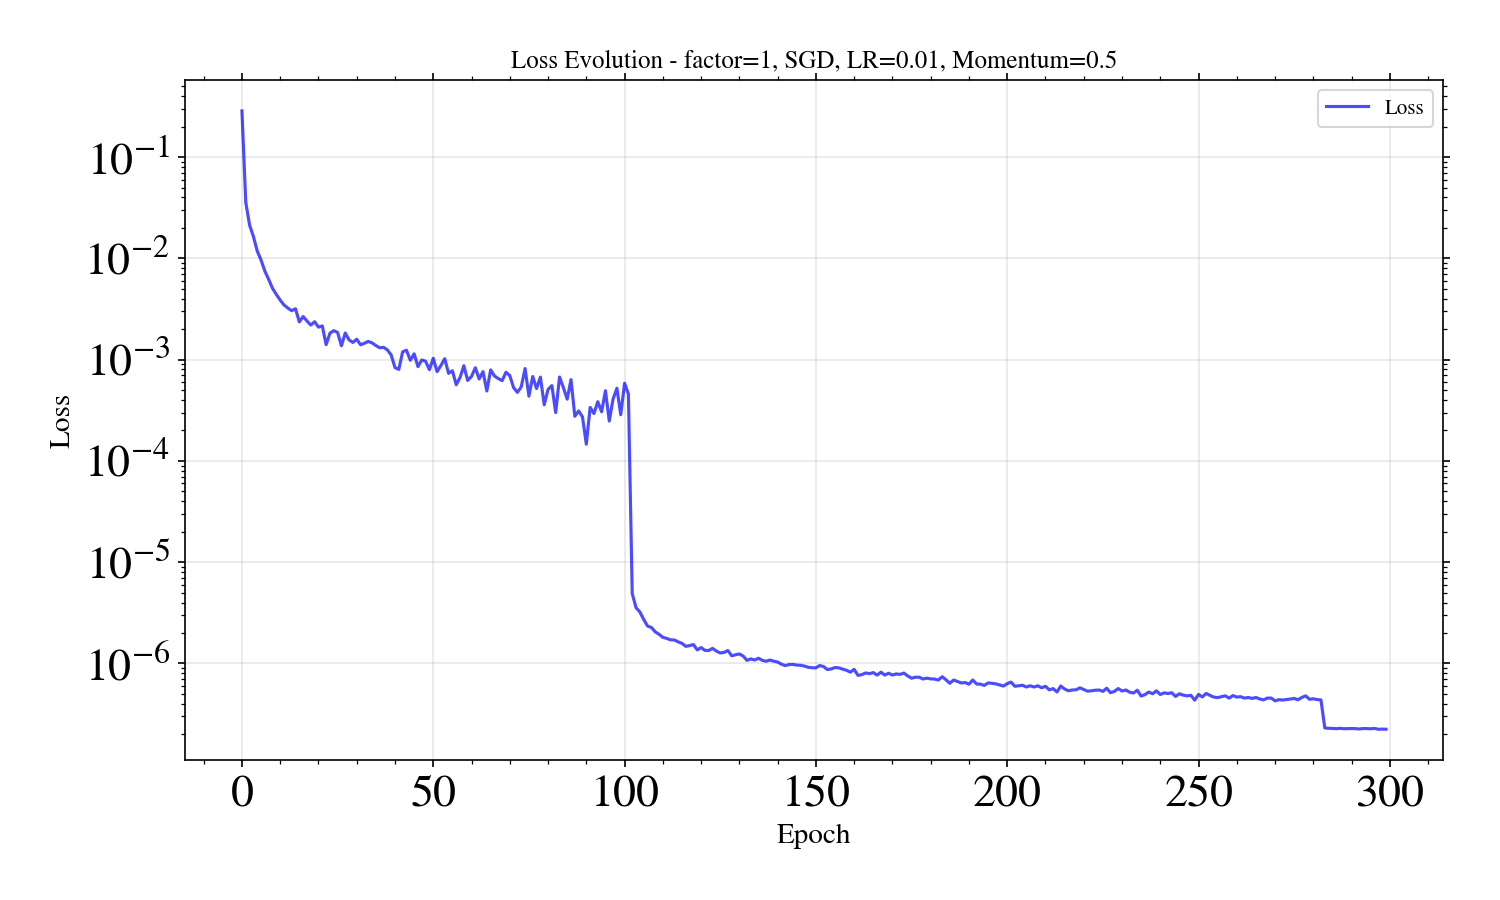
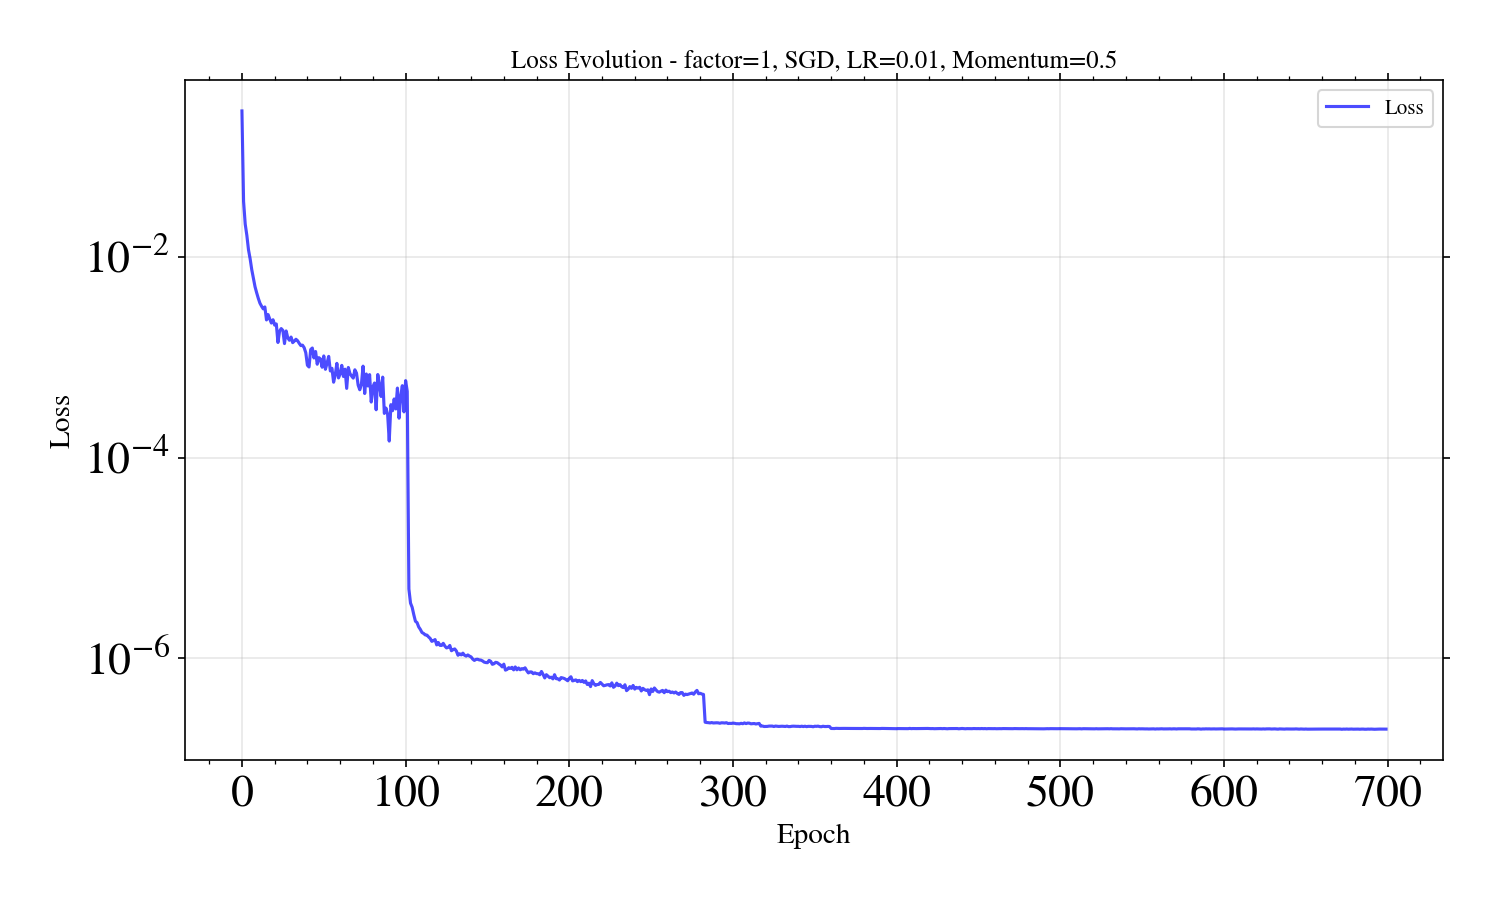
those trainings are incredible

diff --git a/experiments/table/meanfield_cosine_multifreq_experiment.py b/experiments/table/meanfield_cosine_multifreq_experiment.py
@@ -102,6 +102,7 @@ class MeanFieldODESolver:
         # we initialize weights as Gaussian O(1) (not zero)
         self.w1_0 = torch.randn(n1, r, device=device)  # Gaussian N(0, 1) - order 1
         self.w2_0 = torch.randn(n2, device=device)  # Gaussian N(0, 1) - order 1
+        self.c_0 = torch.randn(1, device=device).item()  # scalar output bias (trainable), initialized as N(0, 1)
         
         # we store trajectory
         self.trajectory = []
@@ -137,22 +138,24 @@ class MeanFieldODESolver:
             B_k[k] = torch.mean(L_k * phi2_prime * w2.unsqueeze(1), dim=0)  # [batch_size]
         return B_k
     
-    def compute_output(self, w1, w2, X):
-        """we compute network output y_hat = E_C2[w2(C2) phi2(H2)]"""
+    def compute_output(self, w1, w2, c, X):
+        """we compute network output y_hat = E_C2[w2(C2) phi2(H2)] + c"""
         H2, _ = self.compute_H2(w1, w2, X)
         phi2 = torch.relu(H2)  # [n2, batch_size]
-        y_hat = torch.mean(w2.unsqueeze(1) * phi2, dim=0)  # [batch_size]
+        y_hat = torch.mean(w2.unsqueeze(1) * phi2, dim=0) + c  # [batch_size] + scalar bias
         return y_hat
     
-    def ode_rhs(self, t, y, X_data, y_data, xi1=1.0, xi2=1.0):
+    def ode_rhs(self, t, y, X_data, y_data, xi1=1.0, xi2=1.0, xic=1.0):
         """we compute right-hand side of mean-field ODEs"""
         w1_flat = y[:self.n1 * self.r]
-        w2_flat = y[self.n1 * self.r:]
+        w2_flat = y[self.n1 * self.r:-1]
+        c_val = y[-1]
         w1 = w1_flat.reshape(self.n1, self.r)
         w2 = w2_flat
         
         w1_t = torch.tensor(w1, device=self.device, dtype=torch.float32)
         w2_t = torch.tensor(w2, device=self.device, dtype=torch.float32)
+        c_t = torch.tensor(c_val, device=self.device, dtype=torch.float32)
         X_t = torch.tensor(X_data, device=self.device, dtype=torch.float32)
         if X_t.dim() == 1:
             X_t = X_t.unsqueeze(1)
@@ -161,10 +164,11 @@ class MeanFieldODESolver:
         H2, m_k = self.compute_H2(w1_t, w2_t, X_t)
         B_k = self.compute_backprop_signal(w2_t, H2)
         
-        y_hat = self.compute_output(w1_t, w2_t, X_t)
+        y_hat = self.compute_output(w1_t, w2_t, c_t, X_t)
         dL = y_hat - y_data_t  # square loss derivative [batch_size]
         
         inner_prod = torch.matmul(self.f1, X_t.t())  # [n1, batch_size]
+        inner_prod = inner_prod + self.b1.unsqueeze(1)  # we add frozen bias: [n1, batch_size]
         phi1_vals = torch.relu(inner_prod)  # [n1, batch_size]
         
         dw1 = torch.zeros_like(w1_t)
@@ -175,21 +179,26 @@ class MeanFieldODESolver:
         phi2_vals = torch.relu(H2)  # [n2, batch_size]
         dw2 = -xi2 * torch.mean(dL.unsqueeze(0) * phi2_vals, dim=1)  # [n2]
         
+        # we compute gradient for output bias c: dc/dt = -xic * E[dL]
+        dc = -xic * torch.mean(dL)  # scalar
+        
         dw1_flat = dw1.cpu().numpy().flatten()
         dw2_flat = dw2.cpu().numpy()
-        return np.concatenate([dw1_flat, dw2_flat])
+        dc_val = dc.cpu().numpy().item()
+        return np.concatenate([dw1_flat, dw2_flat, [dc_val]])
     
-    def solve(self, X_data, y_data, t_span=(0, 1000), dt=1.0, xi1=1.0, xi2=1.0):
+    def solve(self, X_data, y_data, t_span=(0, 1000), dt=1.0, xi1=1.0, xi2=1.0, xic=1.0):
         """we solve the mean-field ODEs"""
         y0 = np.concatenate([
             self.w1_0.cpu().numpy().flatten(),
-            self.w2_0.cpu().numpy()
+            self.w2_0.cpu().numpy(),
+            [self.c_0]
         ])
         
         t_eval = np.arange(t_span[0], t_span[1] + dt, dt)
         
         sol = solve_ivp(
-            lambda t, y: self.ode_rhs(t, y, X_data, y_data, xi1=xi1, xi2=xi2),
+            lambda t, y: self.ode_rhs(t, y, X_data, y_data, xi1=xi1, xi2=xi2, xic=xic),
             t_span,
             y0,
             t_eval=t_eval,
@@ -207,10 +216,11 @@ class MeanFieldODESolver:
         """we extract weights at a given time index"""
         y = self.trajectory[t_idx]
         w1_flat = y[:self.n1 * self.r]
-        w2_flat = y[self.n1 * self.r:]
+        w2_flat = y[self.n1 * self.r:-1]
+        c_val = y[-1]
         w1 = w1_flat.reshape(self.n1, self.r)
         w2 = w2_flat
-        return torch.tensor(w1, device=self.device), torch.tensor(w2, device=self.device)
+        return torch.tensor(w1, device=self.device), torch.tensor(w2, device=self.device), c_val
     
     def compute_partial_functions(self, w1, X):
         """we compute f_k(t,x) = m_k(t;x,W) for each channel"""
@@ -299,18 +309,21 @@ def run_experiment():
     # we check initial weights (before solving)
     w1_init = mf_solver.w1_0.clone()
     w2_init = mf_solver.w2_0.clone()
+    c_init = mf_solver.c_0
     print(f"Initial weights: w1 shape={w1_init.shape}, w2 shape={w2_init.shape}")
     print(f"  w1 mean={torch.mean(w1_init).item():.6f}, std={torch.std(w1_init).item():.6f}")
     print(f"  w2 mean={torch.mean(w2_init).item():.6f}, std={torch.std(w2_init).item():.6f}")
+    print(f"  c (output bias) = {c_init:.6f}")
     
     sol = mf_solver.solve(x_train, y_train, t_span=t_span, dt=dt)
     
     print(f"Mean-field ODE solved. Trajectory shape: {mf_solver.trajectory.shape}")
     
     # we check final weights to verify they evolved
-    w1_final, w2_final = mf_solver.get_weights_at_time(-1)
+    w1_final, w2_final, c_final = mf_solver.get_weights_at_time(-1)
     print(f"Final weights: w1 mean={torch.mean(w1_final).item():.6f}, std={torch.std(w1_final).item():.6f}")
     print(f"  w2 mean={torch.mean(w2_final).item():.6f}, std={torch.std(w2_final).item():.6f}")
+    print(f"  c (output bias) = {c_final:.6f}")
     print(f"  Weight change: w1 diff={torch.mean(torch.abs(w1_final - w1_init)).item():.6f}")
     print(f"  Weight change: w2 diff={torch.mean(torch.abs(w2_final - w2_init)).item():.6f}")
     
@@ -333,7 +346,7 @@ def run_experiment():
     
     for t_idx in time_indices:
         t = mf_solver.times[t_idx]
-        w1_t, w2_t = mf_solver.get_weights_at_time(t_idx)
+        w1_t, w2_t, c_t = mf_solver.get_weights_at_time(t_idx)
         
         # we check weight statistics
         w1_mean = torch.mean(torch.abs(w1_t)).item()
@@ -371,10 +384,10 @@ def run_experiment():
     final_time_key = list(results.keys())[-1]
     log_ratios_final = results[final_time_key]['log_ratios']
     final_time = results[final_time_key]['time']
-    w1_final, w2_final = mf_solver.get_weights_at_time(-1)
+    w1_final, w2_final, c_final = mf_solver.get_weights_at_time(-1)
     w1_flat = w1_final.detach().cpu().numpy().flatten()
     w2_flat = w2_final.detach().cpu().numpy().flatten()
-    all_weights = np.concatenate([w1_flat, w2_flat])
+    all_weights = np.concatenate([w1_flat, w2_flat, [c_final]])
     abs_weights = np.abs(all_weights)
     abs_weights = abs_weights[abs_weights > 0]  # we remove zeros for log plot
     
@@ -569,10 +582,10 @@ def run_experiment():
     ax = fig.add_subplot(111)
     for t_idx in time_indices:
         t = mf_solver.times[t_idx]
-        w1_t, w2_t = mf_solver.get_weights_at_time(t_idx)
+        w1_t, w2_t, c_t = mf_solver.get_weights_at_time(t_idx)
         w1_flat_t = w1_t.detach().cpu().numpy().flatten()
         w2_flat_t = w2_t.detach().cpu().numpy().flatten()
-        all_weights_t = np.concatenate([w1_flat_t, w2_flat_t])
+        all_weights_t = np.concatenate([w1_flat_t, w2_flat_t, [c_t]])
         ax.hist(all_weights_t, bins=30, alpha=0.5, label=f'$t={t:.1f}$', density=True)
     ax.set_xlabel('Weight Value $w$', fontsize=24)
     ax.set_ylabel('Density', fontsize=24)
@@ -593,7 +606,8 @@ def run_experiment():
     # we compute weight changes
     w1_change = (w1_final - w1_init).detach().cpu().numpy().flatten()
     w2_change = (w2_final - w2_init).detach().cpu().numpy().flatten()
-    all_weight_changes = np.concatenate([w1_change, w2_change])
+    c_change = np.array([c_final - c_init])
+    all_weight_changes = np.concatenate([w1_change, w2_change, c_change])
     abs_weight_changes = np.abs(all_weight_changes)
     
     # we plot both signed and absolute changes
@@ -687,7 +701,7 @@ def run_experiment():
     x_fine_tensor = torch.tensor(x_fine.reshape(-1, 1), dtype=torch.float32, device=device)
     
     # we get weights at final time
-    w1_final, w2_final = mf_solver.get_weights_at_time(-1)
+    w1_final, w2_final, c_final = mf_solver.get_weights_at_time(-1)
     
     # we compute the 15 low-rank functions (output of low-rank layer, like in MMNN)
     # in mean-field: these are computed as the output after mixing f_k via L
@@ -805,7 +819,8 @@ def run_experiment():
     
     # we also plot the final output (weighted average of phi2)
     H2_fine, _ = mf_solver.compute_H2(w1_final, w2_final, x_fine_tensor)  # [n2, 500]
-    y_hat_fine = mf_solver.compute_output(w1_final, w2_final, x_fine_tensor).detach().cpu().numpy()
+    c_final_tensor = torch.tensor(c_final, device=device, dtype=torch.float32)
+    y_hat_fine = mf_solver.compute_output(w1_final, w2_final, c_final_tensor, x_fine_tensor).detach().cpu().numpy()
     
     fig = plt.figure(figsize=(12, 8))
     ax = fig.add_subplot(111)
@@ -817,7 +832,7 @@ def run_experiment():
     ax.legend(fontsize=18)
     ax.grid(True, alpha=0.3)
     ax.tick_params(labelsize=18)
-    fig.text(0.5, 0.02, f'{common_info_text} Final output: $\\hat{{y}}(x) = \\mathbb{{E}}_{{C_2}}[w_2(C_2) \\cdot \\phi_2(H_2)]$.', ha='center', fontsize=12, wrap=True)
+    fig.text(0.5, 0.02, f'{common_info_text} Final output: $\\hat{{y}}(x) = \\mathbb{{E}}_{{C_2}}[w_2(C_2) \\cdot \\phi_2(H_2)] + c$ (with output bias $c$).', ha='center', fontsize=12, wrap=True)
     plt.tight_layout(rect=[0, 0.05, 1, 0.98])
     plt.savefig(output_dir / 'meanfield_final_output.png', dpi=300, bbox_inches='tight')
     print(f"Saved figure to {output_dir / 'meanfield_final_output.png'}")
@@ -826,14 +841,15 @@ def run_experiment():
     print("\n" + "="*80)
     print("Mean-Field Implementation Summary:")
     print("="*80)
-    print("1. Architecture: 2-layer network with frozen random features f1 and mixing matrix L")
-    print("2. Partial Functions: f_k(x) = E_C1[w1(C1,k) * phi1(f1(C1), x)] where phi1 = ReLU")
+    print("1. Architecture: 2-layer network with frozen random features f1 (with bias b1) and mixing matrix L")
+    print("2. Partial Functions: f_k(x) = E_C1[w1(C1,k) * phi1(f1(C1)*x + b1(C1))] where phi1 = ReLU")
     print("3. Hidden Layer: H2(c2;x) = sum_k L_{c2,k} * f_k(x)")
-    print("4. Output: y_hat = E_C2[w2(C2) * phi2(H2)] where phi2 = ReLU")
+    print("4. Output: y_hat = E_C2[w2(C2) * phi2(H2)] + c where phi2 = ReLU, c is trainable output bias")
     print("5. Backprop Signal: B_k = E_C2[L_{C2,k} * phi2'(H2) * w2]")
     print("6. Weight Updates:")
     print("   - dw1[:,k] = -xi1 * E[dL * phi1 * B_k]")
     print("   - dw2 = -xi2 * E[dL * phi2]")
+    print("   - dc = -xic * E[dL]")
     print("   where dL = y_hat - y (square loss derivative)")
     print("7. ODE Solver: scipy.integrate.solve_ivp with RK45 method")
     print("="*80)

diff --git a/experiments/table/add_lr_reduction_bars.py b/experiments/table/add_lr_reduction_bars.py
@@ -1,0 +1,115 @@
+#!/usr/bin/env python3
+"""
+Add red vertical bars to existing loss evolution plots at LR reduction moments
+and update results.json with lr_reduction_epochs if missing
+"""
+import json
+import numpy as np
+import matplotlib
+matplotlib.use("Agg")
+import matplotlib.pyplot as plt
+from pathlib import Path
+
+def update_plots_and_results(results_dir):
+    """Update all plots and results.json files with LR reduction bars"""
+    results_dir = Path(results_dir)
+    
+    # Find all AdaptiveStagnation directories
+    config_dirs = list(results_dir.glob("factor*_rank*_*_AdaptiveStagnation"))
+    if not config_dirs:
+        # Try nested path
+        results_dir = results_dir / "experiments" / "table" / "results_tune_lr_decay_L2"
+        config_dirs = list(results_dir.glob("factor*_rank*_*_AdaptiveStagnation"))
+    
+    print(f"Found {len(config_dirs)} AdaptiveStagnation configs")
+    
+    for config_dir in config_dirs:
+        results_file = config_dir / "results.json"
+        plot_file = config_dir / "loss_evolution.png"
+        
+        if not results_file.exists():
+            print(f"  ⚠  {config_dir.name}: results.json not found, skipping")
+            continue
+        
+        print(f"Processing: {config_dir.name}")
+        
+        # Load results
+        with open(results_file, 'r') as f:
+            results = json.load(f)
+        
+        # Get LR reduction epochs
+        lr_reduction_epochs = results.get('lr_reduction_epochs', [])
+        all_losses = results.get('all_losses', [])
+        
+        if not all_losses:
+            print(f"  ⚠  No losses found, skipping")
+            continue
+        
+        # Update results.json if lr_reduction_epochs is missing but we can infer from all_lrs
+        if not lr_reduction_epochs and 'all_lrs' in results:
+            all_lrs = results['all_lrs']
+            lr_sequence = [0.01, 0.005, 0.001, 0.0005, 0.0001]
+            lr_reduction_epochs = []
+            current_lr_idx = 0
+            
+            for epoch, lr in enumerate(all_lrs):
+                if current_lr_idx < len(lr_sequence) - 1:
+                    if lr < lr_sequence[current_lr_idx] - 1e-6:  # LR decreased
+                        current_lr_idx += 1
+                        lr_reduction_epochs.append(epoch)
+            
+            if lr_reduction_epochs:
+                results['lr_reduction_epochs'] = lr_reduction_epochs
+                with open(results_file, 'w') as f:
+                    json.dump(results, f, indent=2)
+                print(f"  ✅ Updated results.json with {len(lr_reduction_epochs)} LR reductions")
+        
+        # Recreate plot with red bars
+        if plot_file.exists() and lr_reduction_epochs:
+            fig, ax = plt.subplots(1, 1, figsize=(10, 6))
+            ax.semilogy(all_losses, 'b-', linewidth=1.5, alpha=0.7, label='Loss')
+            
+            # Add red vertical bars
+            for i, reduction_epoch in enumerate(lr_reduction_epochs):
+                if reduction_epoch < len(all_losses):
+                    ax.axvline(x=reduction_epoch, color='r', linestyle='--', linewidth=1.5, 
+                              alpha=0.7, label='LR reduction' if i == 0 else '')
+            
+            ax.set_xlabel('Epoch', fontsize=14)
+            ax.set_ylabel('Loss', fontsize=14)
+            
+            # Extract info from directory name
+            parts = config_dir.name.split('_')
+            factor = parts[0].replace('factor', '')
+            rank = parts[1].replace('rank', '')
+            momentum = parts[3].replace('mom', '')
+            
+            title = f'Loss Evolution - factor={factor}, SGD, Momentum={momentum}, LR init=0.01'
+            ax.set_title(title, fontsize=12)
+            ax.legend(fontsize=10)
+            ax.grid(True, alpha=0.3)
+            plt.tight_layout()
+            plt.savefig(plot_file, dpi=150)
+            plt.close()
+            print(f"  ✅ Updated plot with {len(lr_reduction_epochs)} red bars")
+        elif not lr_reduction_epochs:
+            print(f"  ⚠  No LR reductions found")
+
+if __name__ == "__main__":
+    # Try both possible paths
+    results_dir1 = Path("experiments/table/results_tune_lr_decay_L2")
+    results_dir2 = Path("experiments/table/experiments/table/results_tune_lr_decay_L2")
+    
+    if results_dir2.exists():
+        results_dir = results_dir2
+    elif results_dir1.exists():
+        results_dir = results_dir1
+    else:
+        print("❌ Results directory not found!")
+        exit(1)
+    
+    print(f"Updating plots and results in: {results_dir}")
+    print("="*80)
+    update_plots_and_results(results_dir)
+    print("="*80)
+    print("✅ Done!")

diff --git a/experiments/table/tune_lr_decay_L2.py b/experiments/table/tune_lr_decay_L2.py
@@ -246,6 +246,10 @@ def train_one_config(factor, lr_config, output_dir):
                         param_group['lr'] = new_lr
                     adaptive_scheduler['current_lr_index'] = current_lr_index
                     adaptive_scheduler['last_reduction_epoch'] = epoch
+                    # Store LR reduction moments
+                    if 'lr_reduction_epochs' not in adaptive_scheduler:
+                        adaptive_scheduler['lr_reduction_epochs'] = []
+                    adaptive_scheduler['lr_reduction_epochs'].append(epoch)
                     print(f"\n📉 Loss stagnating at epoch {epoch}: reducing LR to {new_lr:.2e}")
         
         all_lrs.append(optimizer.param_groups[0]['lr'])
@@ -257,6 +261,13 @@ def train_one_config(factor, lr_config, output_dir):
         if (epoch + 1) % 50 == 0 or epoch == 0:
             fig, ax = plt.subplots(1, 1, figsize=(10, 6))
             ax.semilogy(all_losses, 'b-', linewidth=1.5, alpha=0.7, label='Loss')
+            
+            # Add red vertical bars at LR reduction moments
+            if adaptive_scheduler is not None and 'lr_reduction_epochs' in adaptive_scheduler:
+                for reduction_epoch in adaptive_scheduler['lr_reduction_epochs']:
+                    if reduction_epoch < len(all_losses):
+                        ax.axvline(x=reduction_epoch, color='r', linestyle='--', linewidth=1.5, alpha=0.7)
+            
             ax.set_xlabel('Epoch', fontsize=14)
             ax.set_ylabel('Loss', fontsize=14)
             title = f'Loss Evolution - factor={factor}, {optimizer_type}, LR={lr_init}'
@@ -297,6 +308,12 @@ def train_one_config(factor, lr_config, output_dir):
     # loss evolution
     ax1 = axes[0]
     ax1.semilogy(all_losses, 'b-', linewidth=1.5, alpha=0.7, label='Loss')
+    
+    # Add red vertical bars at LR reduction moments
+    if adaptive_scheduler is not None and 'lr_reduction_epochs' in adaptive_scheduler:
+        for reduction_epoch in adaptive_scheduler['lr_reduction_epochs']:
+            if reduction_epoch < len(all_losses):
+                ax1.axvline(x=reduction_epoch, color='r', linestyle='--', linewidth=1.5, alpha=0.7, label='LR reduction' if reduction_epoch == adaptive_scheduler['lr_reduction_epochs'][0] else '')
     ax1.set_xlabel('Epoch', fontsize=18)
     ax1.set_ylabel('Loss', fontsize=18)
     title = f'Loss Evolution - factor={factor}, {optimizer_type}'
@@ -340,6 +357,11 @@ def train_one_config(factor, lr_config, output_dir):
         cv = float('inf')
         oscillation_ratio = float('inf')
     
+    # Store LR reduction epochs if adaptive scheduler was used
+    lr_reduction_epochs = []
+    if adaptive_scheduler is not None and 'lr_reduction_epochs' in adaptive_scheduler:
+        lr_reduction_epochs = adaptive_scheduler['lr_reduction_epochs']
+    
     # we save results
     results = {
         'factor': factor,
@@ -363,8 +385,9 @@ def train_one_config(factor, lr_config, output_dir):
         'training_time_seconds': training_time,
         'oscillation_cv': cv,
         'oscillation_ratio': oscillation_ratio,
-        'all_losses': all_losses,
+        'all_losses': all_losses,  # Store all losses
         'all_lrs': all_lrs,
+        'lr_reduction_epochs': lr_reduction_epochs,  # Store LR reduction moments
         'errors_train': errors_train,
         'errors_test': errors_test,
         'errors_test_max': errors_test_max,
